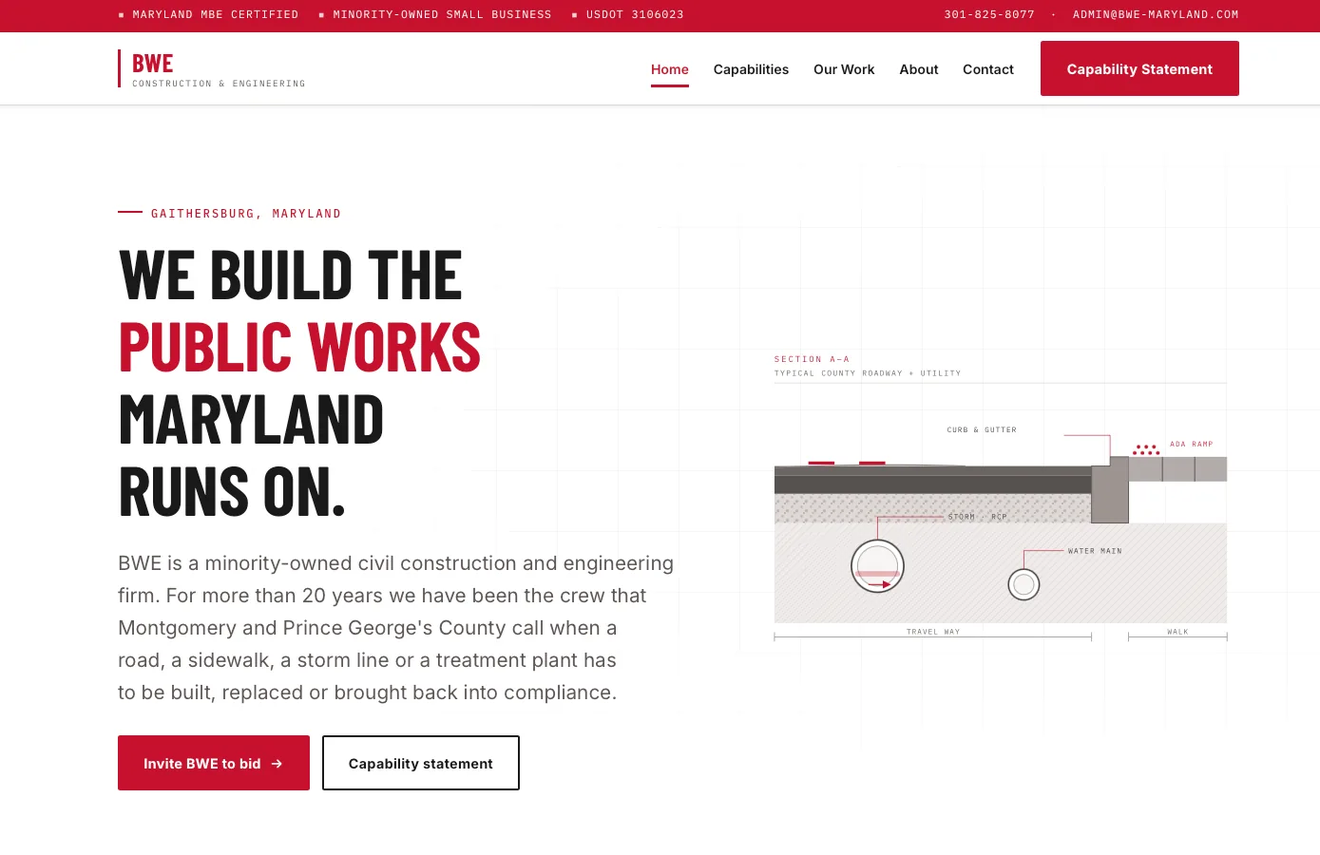
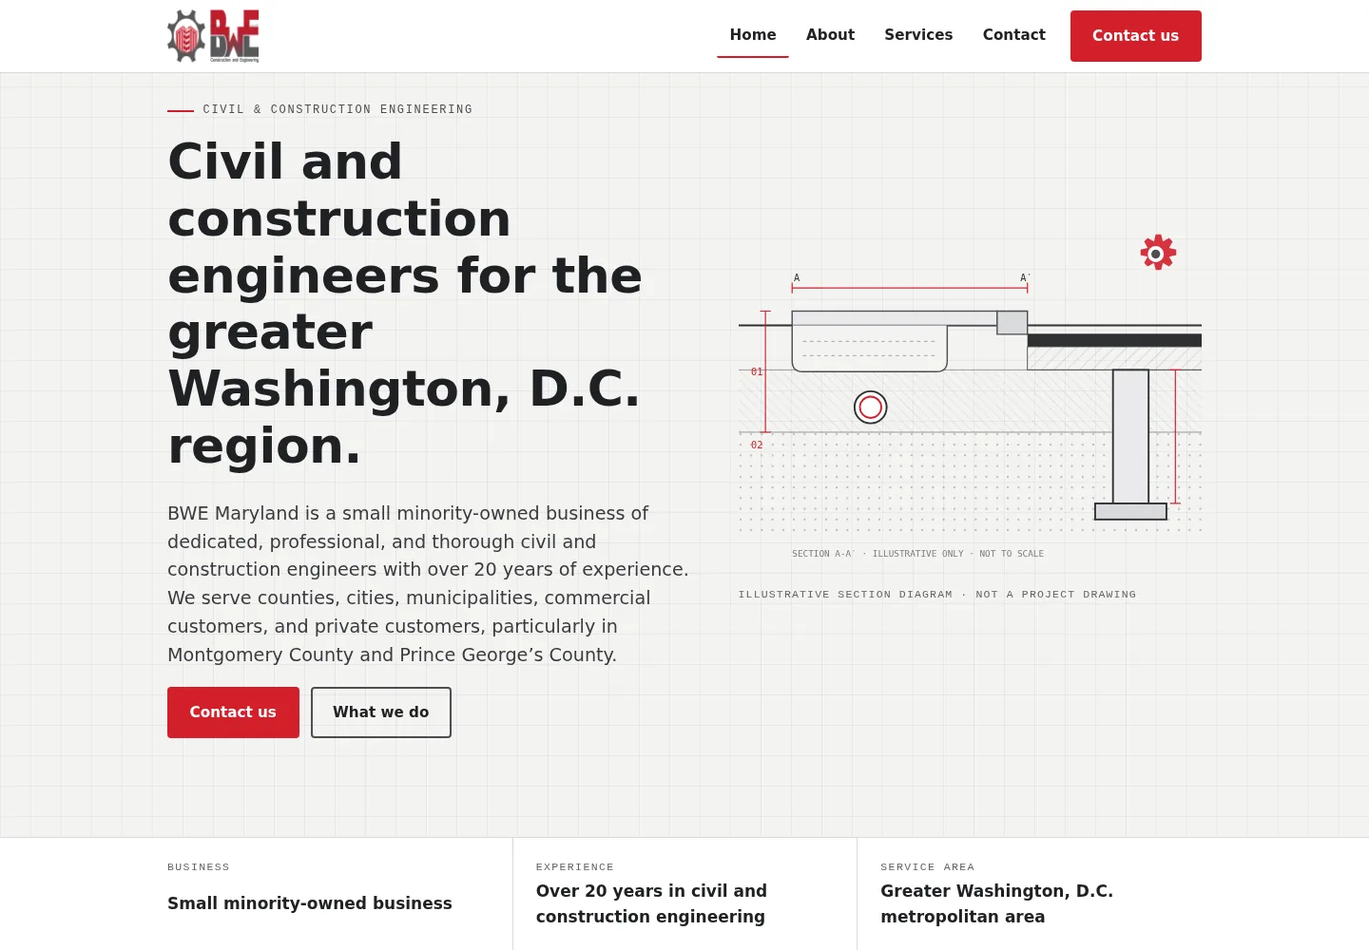
Rebuild the BWE case study from the live site and its claim register
I could not reach bwe-maryland.com: the organisation's egress policy answers
403 to CONNECT for it, as it does for every external host, so there is no
snapshot of the running site. Instead the screenshots come from a local
production build of the site's own repository at package version 0.2.1 —
the version its deployment record says is serving — which is the same method
used for Enlace Mental. The source commit is recorded in README.md.

Reading that repository turned up a real problem. The case study described a
services list, certifications surfaced in the header, and a capability
statement treated as the primary call to action. None of that survived the
project's own claim register:

- Thirteen specific service claims were removed from the build as unconfirmed
  and parked in a backlog. The portfolio was republishing them.
- Formal MBE/DBE certification is recorded as unsupported and deliberately
  absent from the site. The portfolio said certifications were surfaced in
  the header.
- There is no capability statement anywhere in the project.

So the case study is rewritten around what actually happened, which is a
better story than the one it replaced: the hard part was not the design, it
was establishing which claims the business could stand behind. Every factual
statement on the site has a register row with a status, a source and an
owner; a claim sweep fails the build if removed wording reappears; the
[…]

diff --git a/src/content/projects/bwe-maryland.ts b/src/content/projects/bwe-maryland.ts
@@ -18,8 +18,8 @@ export const bweMaryland: Project = {
     es: 'Gaithersburg, Maryland, Estados Unidos',
   },
   audience: {
-    en: 'County project managers, prime contractors and estimators deciding who gets invited to bid.',
-    es: 'Gerentes de proyecto del condado, contratistas generales y estimadores que deciden a quién invitan a licitar.',
+    en: 'Counties, cities and municipalities in the greater Washington, D.C. area, plus commercial and private customers deciding whether this is a firm to call.',
+    es: 'Condados, ciudades y municipios del área metropolitana de Washington, D.C., además de clientes comerciales y privados que evalúan si esta es una empresa a la que llamar.',
   },
   role: {
     en: 'Product strategist, content architect, designer and builder',
@@ -27,66 +27,82 @@ export const bweMaryland: Project = {
   },
 
   summary: {
-    en: 'A website revamp for a Maryland civil construction and engineering firm, built for the people who decide who gets invited to bid.',
-    es: 'Renovación del sitio web de una empresa de construcción civil e ingeniería en Maryland, hecha para quienes deciden a quién invitan a licitar.',
+    en: 'A website revamp for a Maryland civil and construction engineering firm, where the hard part was not the design — it was working out which claims the business could actually stand behind.',
+    es: 'La renovación del sitio web de una empresa de ingeniería civil y de construcción en Maryland, donde lo difícil no fue el diseño sino definir qué afirmaciones podía sostener el negocio de verdad.',
   },
   headline: {
-    en: 'A civil contractor that reads like it belongs on the bid list',
-    es: 'Un contratista civil que se lee como parte de la lista de licitación',
+    en: 'A website that only says what the business can prove',
+    es: 'Un sitio web que solo dice lo que el negocio puede demostrar',
   },
 
   businessProblem: {
     en: [
-      'Civil construction does not sell the way a consumer business sells. The reader is a county project manager or a prime contractor’s estimator, and what they need is narrow, specific and boring in the best way: what this firm self-performs, where it works, what certifications it holds, and whether there is a capability statement they can attach to a file.',
-      'A site written for a general audience makes that reader dig for all four. Digging is the point at which a qualified buyer moves on to the next firm on the list.',
+      'The old site was out of date and the firm had lost control of its own domain. Rebuilding the pages was the visible job. The real job turned out to be evidence.',
+      'Most of what anyone could tell me about the company came from old emails: a 2021 list of services, projects mentioned in passing, phone numbers and an office address from stale signatures. None of it was written by the company. Publishing it would have meant a civil engineering firm making capability claims to public-sector buyers that nobody at the firm had confirmed — which is a real problem when the reader is deciding whether to invite you to bid.',
+      'So the question stopped being "what should the site say" and became "what can this business actually stand behind, and who signed off on it".',
     ],
     es: [
-      'La construcción civil no se vende como se vende al consumidor final. Quien lee es un gerente de proyecto del condado o el estimador de un contratista general, y lo que necesita es concreto, específico y afortunadamente aburrido: qué ejecuta la empresa con personal propio, en qué zona trabaja, qué certificaciones tiene y si existe un capability statement que pueda adjuntar a un expediente.',
-      'Un sitio escrito para el público general obliga a ese lector a buscar las cuatro cosas. Y ese es justamente el momento en que un comprador calificado pasa a la siguiente empresa de la lista.',
+      'El sitio anterior estaba desactualizado y la empresa había perdido el control de su propio dominio. Reconstruir las páginas era el trabajo visible. El trabajo real resultó ser la evidencia.',
+      'Casi todo lo que alguien podía contarme de la empresa venía de correos viejos: una lista de servicios de 2021, proyectos mencionados de pasada, teléfonos y una dirección de oficina sacados de firmas desactualizadas. Nada de eso lo había escrito la empresa. Publicarlo habría significado que una firma de ingeniería civil hiciera, ante compradores del sector público, afirmaciones de capacidad que nadie en la empresa había confirmado, y eso pesa cuando quien lee está decidiendo a quién invita a licitar.',
+      'Así que la pregunta dejó de ser «qué debería decir el sitio» y pasó a ser «qué puede sostener este negocio de verdad, y quién lo aprobó».',
     ],
   },
   keyDecisions: {
     en: [
-      'Write the homepage for the estimator, not for a homeowner. It states the work plainly — roads, sidewalks, storm lines and treatment plants — and names the counties served.',
-      'Surface certifications and registration numbers in the header rather than burying them on an About page, because for this buyer those are the qualification.',
-      'Treat the capability statement as a primary call to action, not a PDF link in the footer. It is the artefact the buyer actually needs to walk away with.',
-      'Separate capabilities from past work, so a reader can answer "can they do this" and "have they done this" independently instead of inferring one from the other.',
-      'Use technical drawing as the visual language instead of stock construction photography, which every competitor in the category already uses.',
+      'Give every factual statement on the site a row in a claim register: the exact wording, a status, a source, a source date, who owns the decision, and whether it publishes. Nothing reaches a page without one.',
+      'Remove rather than soften. Thirteen specific service claims traced back to a 2021 email that had been written for the company rather than by it. With the company unavailable to confirm them before launch, they came out of the build entirely and went to a backlog — rather than being hedged into vagueness, which is the usual move and is just a quieter way of saying something unverified.',
+      'Publish only the two disciplines the recovered company text actually names — civil and construction engineering — and nothing narrower. A services page that says less, but is true, beats a longer one nobody can vouch for.',
+      'Keep certifications off the site. "Minority-owned" is published as a description because the company wrote it; formal MBE or DBE certification and certification numbers are not, because no evidence for them exists. Those two things look similar on a page and are completely different to a procurement officer.',
+      'Cut the specific projects that appeared only as email mentions, and cut the stale office address and an old phone number. A wrong phone number on a contractor site is worse than no phone number.',
+      'Use technical drawing as the visual language instead of stock construction photography — and label the drawing "illustrative only, not a project drawing", so an image cannot imply work the register does not support.',
+      'Build the discipline into the tooling. A claim sweep runs on every package build and fails it if any removed or rejected wording reappears, so the register cannot quietly rot as pages get edited later.',
+      'Ship a static site with no cookies, no analytics, no third-party scripts and no embeds, and hand the contact form off to the visitor’s own mail app rather than claim a submission the site cannot actually deliver yet.',
+      'Treat the one piece of hard evidence properly: a recognition from the Islamic Center of Maryland, transcribed from the physical plaque, presented as Selected Experience rather than padded out with projects that could not be verified.',
     ],
     es: [
-      'Escribir la página principal para el estimador, no para un dueño de casa. Dice el trabajo sin rodeos —calles, aceras, drenaje pluvial y plantas de tratamiento— y nombra los condados donde se trabaja.',
-      'Poner las certificaciones y los números de registro en el encabezado en vez de esconderlos en una página de "Nosotros", porque para este comprador eso es la calificación.',
-      'Tratar el capability statement como llamada a la acción principal y no como un enlace a PDF en el pie de página. Es el documento que el comprador necesita llevarse.',
-      'Separar las capacidades del trabajo realizado, para que el lector pueda responder "¿pueden hacer esto?" y "¿ya lo han hecho?" por separado, sin tener que deducir una cosa de la otra.',
-      'Usar dibujo técnico como lenguaje visual en lugar de fotografía de archivo de construcción, que ya usan todos los competidores de la categoría.',
+      'Darle a cada afirmación del sitio una fila en un registro de claims: el texto exacto, un estado, una fuente, la fecha de esa fuente, quién es dueño de la decisión y si se publica o no. Nada llega a una página sin eso.',
+      'Eliminar en vez de suavizar. Trece afirmaciones concretas de servicios venían de un correo de 2021 escrito para la empresa, no por ella. Como la empresa no estuvo disponible para confirmarlas antes del lanzamiento, salieron por completo del build y quedaron en una lista pendiente, en lugar de diluirse en generalidades, que es lo habitual y no deja de ser una forma más discreta de afirmar algo sin verificar.',
+      'Publicar solamente las dos disciplinas que el texto recuperado de la empresa sí nombra —ingeniería civil y de construcción— y nada más específico. Una página de servicios que dice menos, pero es cierta, vale más que una más larga que nadie puede respaldar.',
+      'Dejar las certificaciones fuera del sitio. «Empresa de propiedad minoritaria» se publica como descripción porque lo escribió la propia empresa; una certificación formal MBE o DBE y sus números no, porque no existe evidencia de ellas. En una página esas dos cosas se parecen, y para quien maneja compras públicas son completamente distintas.',
+      'Quitar los proyectos concretos que solo aparecían mencionados en correos, y quitar también la dirección de oficina desactualizada y un teléfono viejo. Un teléfono equivocado en el sitio de un contratista es peor que no poner teléfono.',
+      'Usar dibujo técnico como lenguaje visual en lugar de fotografía de archivo de construcción, y rotular el dibujo como «solo ilustrativo, no es un plano de proyecto», para que ninguna imagen insinúe trabajos que el registro no respalda.',
+      'Meter la disciplina en las herramientas. Una revisión automática de claims corre en cada build empaquetado y lo hace fallar si reaparece algún texto eliminado o rechazado, para que el registro no se pudra en silencio cuando alguien edite las páginas más adelante.',
+      'Publicar un sitio estático sin cookies, sin analítica, sin scripts de terceros y sin incrustaciones, y pasar el formulario de contacto a la aplicación de correo del visitante en vez de afirmar un envío que el sitio todavía no puede cumplir.',
+      'Tratar como corresponde la única evidencia sólida: un reconocimiento del Islamic Center of Maryland, transcrito de la placa física, presentado como experiencia seleccionada y no inflado con proyectos imposibles de verificar.',
     ],
   },
   deliverables: {
     en: [
-      'A homepage that states self-performed capabilities and service area above the fold',
-      'Certifications and registrations presented as persistent, checkable credentials',
-      'A capability-statement path treated as a first-class call to action',
-      'Capabilities and past work as separate, independently browsable sections',
-      'A visual system built on technical drawing rather than stock photography',
-      'Responsive layouts for the phone, since site visits and bid reviews both happen away from a desk',
+      'A five-page static site — home, about, services, contact and privacy — plus a branded 404, hand-written and generated by a small build script, with no framework and nothing to run on the server',
+      'A claim register covering every factual statement on the site, with status, source, source date, owner and publication decision',
+      'An automated claim sweep that fails the build if removed or rejected wording reappears',
+      'A visual system built on technical drawing, explicitly labelled as illustrative rather than as project work',
+      'Selected Experience limited to the one recognition backed by a physical plaque, transcribed from the original',
+      'A contact path that hands off to the visitor’s own mail app, and says so, rather than implying a submission it cannot deliver',
+      'A privacy position with no cookies, no analytics and no third-party requests, stated on the page and verified by the build checks',
+      'Accessibility and markup checks run at three widths on every build, plus sitemap, robots and social metadata',
+      'A deployment record and rollback values written down, so the domain move could be undone without touching the company’s mail',
     ],
     es: [
-      'Una página principal que expone, sin necesidad de bajar, las capacidades propias y la zona de servicio',
-      'Certificaciones y registros presentados como credenciales visibles y verificables',
-      'Un camino claro hacia el capability statement, tratado como llamada a la acción principal',
-      'Capacidades y trabajo realizado como secciones separadas y navegables por separado',
-      'Un sistema visual construido sobre dibujo técnico y no sobre fotografía de archivo',
-      'Diseño adaptado al teléfono, porque tanto las visitas de obra como las revisiones de licitación ocurren lejos del escritorio',
+      'Un sitio estático de cinco páginas —inicio, nosotros, servicios, contacto y privacidad— más un 404 con la marca, escrito a mano y generado por un script de build pequeño, sin framework y sin nada que ejecutar en el servidor',
+      'Un registro de claims que cubre cada afirmación del sitio, con estado, fuente, fecha de la fuente, responsable y decisión de publicación',
+      'Una revisión automática de claims que hace fallar el build si reaparece texto eliminado o rechazado',
+      'Un sistema visual construido sobre dibujo técnico, rotulado explícitamente como ilustrativo y no como trabajo de proyecto',
+      'Una sección de experiencia seleccionada limitada al único reconocimiento respaldado por una placa física, transcrita del original',
+      'Un camino de contacto que pasa el mensaje a la aplicación de correo del visitante, y lo dice, en lugar de insinuar un envío que no puede cumplir',
+      'Una postura de privacidad sin cookies, sin analítica y sin peticiones a terceros, declarada en la página y verificada por las comprobaciones del build',
+      'Comprobaciones de accesibilidad y de marcado en tres anchos en cada build, además de sitemap, robots y metadatos para compartir',
+      'Un registro de despliegue y valores de reversión por escrito, para poder deshacer el cambio de dominio sin tocar el correo de la empresa',
     ],
   },
 
   evidence: {
-    en: 'The site is live at the firm’s own domain. It launched recently and nothing has been measured yet, so there is no traffic, bid-invitation or enquiry figure to report.',
-    es: 'El sitio está en línea en el dominio de la propia empresa. Se lanzó hace poco y todavía no se ha medido nada, así que no hay cifras de tráfico, de invitaciones a licitar ni de consultas que reportar.',
+    en: 'The site went live at the firm’s own domain on 5 September 2026 on version 0.2.1, after the owner reviewed it on a phone and a laptop and gave written approval. Of the claims considered, thirty-four publish with a recorded source and twenty-two were removed or held; the launch gate requires zero unsupported claims in the rendered output. Nothing about traffic, bid invitations or enquiries has been measured, so none is reported.',
+    es: 'El sitio salió en línea en el dominio de la propia empresa el 5 de septiembre de 2026, en la versión 0.2.1, después de que el dueño lo revisara en teléfono y computadora y diera su aprobación por escrito. De las afirmaciones evaluadas, treinta y cuatro se publican con una fuente registrada y veintidós se eliminaron o quedaron en espera; la compuerta de lanzamiento exige cero afirmaciones sin respaldo en el resultado publicado. No se ha medido nada sobre tráfico, invitaciones a licitar ni consultas, así que no se reporta ninguna cifra.',
   },
   currentState: {
-    en: 'Live at bwe-maryland.com. The domain is back under the firm’s control and the revamped site is the one serving there.',
-    es: 'En línea en bwe-maryland.com. El dominio volvió al control de la empresa y el sitio renovado es el que está publicado ahí.',
+    en: 'Live at bwe-maryland.com. The domain is back under the firm’s control and the revamped site is the one serving there. The service claims that were pulled before launch sit in a backlog, waiting on the company to confirm them.',
+    es: 'En línea en bwe-maryland.com. El dominio volvió al control de la empresa y el sitio renovado es el que está publicado ahí. Las afirmaciones de servicios que se retiraron antes del lanzamiento están en una lista pendiente, a la espera de que la empresa las confirme.',
   },
 
   // The Netlify prototype is now a stale duplicate of a site that has a real
@@ -97,25 +113,58 @@ export const bweMaryland: Project = {
   },
 
   images: {
-    // This capture predates launch. The design is the one that shipped, but it
-    // should be recaptured from the live domain — see the asset notes in
-    // README.md.
     desktop: {
       src: '/projects/bwe-maryland/homepage-desktop.webp',
-      width: 1389,
-      height: 900,
+      width: 1440,
+      height: 1000,
       alt: {
-        en: 'The BWE Construction & Engineering home page on a desktop browser, with capabilities and certifications in view.',
-        es: 'La página principal de BWE Construction & Engineering en un navegador de escritorio, con las capacidades y las certificaciones a la vista.',
+        en: 'The BWE Maryland home page on a desktop browser: a technical section drawing beside the headline “Civil and construction engineers for the greater Washington, D.C. region.”',
+        es: 'La página principal de BWE Maryland en un navegador de escritorio: un dibujo técnico de sección junto al titular «Civil and construction engineers for the greater Washington, D.C. region».',
       },
     },
-    gallery: [],
+    mobile: {
+      src: '/projects/bwe-maryland/homepage-mobile.webp',
+      width: 780,
+      height: 1800,
+      alt: {
+        en: 'The same BWE Maryland home page on a phone, with the headline and both calls to action.',
+        es: 'La misma página principal de BWE Maryland en un teléfono, con el titular y las dos llamadas a la acción.',
+      },
+    },
+    gallery: [
+      {
+        src: '/projects/bwe-maryland/services.webp',
+        width: 1440,
+        height: 1000,
+        alt: {
+          en: 'The services page, naming civil engineering and construction engineering and nothing narrower.',
+          es: 'La página de servicios, que nombra ingeniería civil e ingeniería de construcción y nada más específico.',
+        },
+        caption: {
+          en: 'Services says less than the old draft did, and every word of it has a source. The thirteen removed claims are in a backlog, not on the page.',
+          es: 'La página de servicios dice menos que el borrador anterior, y cada palabra tiene una fuente. Las trece afirmaciones retiradas están en una lista pendiente, no en la página.',
+        },
+      },
+      {
+        src: '/projects/bwe-maryland/about.webp',
+        width: 1440,
+        height: 1000,
+        alt: {
+          en: 'The about page, with the company description and the Islamic Center of Maryland recognition.',
+          es: 'La página de nosotros, con la descripción de la empresa y el reconocimiento del Islamic Center of Maryland.',
+        },
+        caption: {
+          en: 'The one recognition with hard evidence behind it, transcribed from the physical plaque rather than paraphrased.',
+          es: 'El único reconocimiento con evidencia sólida detrás, transcrito de la placa física en lugar de parafraseado.',
+        },
+      },
+    ],
   },
 
   // The site being live at the firm's own domain is not the firm agreeing to
   // appear in someone else's portfolio. Those are separate permissions.
   publicPermission: 'pending',
   permissionNote:
-    'Confirm with the firm that it is happy to be named publicly, and that the capabilities described here are the ones it wants stated, before this goes to production.',
+    'Confirm with the firm that it is happy to be named publicly, and that this description of the work is one it is comfortable with, before this goes to production.',
   lastVerified: '2026-09-05',
 }

diff --git a/docs/PORTFOLIO_AND_PROOF_SYSTEM.md b/docs/PORTFOLIO_AND_PROOF_SYSTEM.md
@@ -207,11 +207,20 @@ Notes that matter for accuracy:
   restored. The automated check in `scripts/audit-content.mjs` inverted with it: it used
   to fail the build if a `liveUrl` appeared, and now fails if the live URL is missing or
   the superseded prototype link comes back.
-  Two things did **not** change. Naming permission is still pending — a firm publishing
-  its own website is not that firm agreeing to appear in someone else's portfolio — and
-  the committed screenshot is still the pre-launch capture, so it is on the recapture
-  list. Nothing about traffic, bid invitations or enquiries is claimed, because nothing
-  has been measured.
+  Screenshots were recaptured from a production build of the site's own repository at
+  package version 0.2.1 — the version the deployment record says is serving — because the
+  live domain is unreachable from a Claude Code session under the organisation's egress
+  policy.
+  The case study was also rewritten against the project's own claim register. An earlier
+  draft described a services list, certifications surfaced in the header and a capability
+  statement as a call to action. None of those survived the client's own verification:
+  thirteen service claims were removed to a backlog as unconfirmed, formal certification
+  is recorded as unsupported and deliberately absent, and there is no capability
+  statement. The case study now describes what the register actually shows, which is a
+  better story than the one it replaced.
+  Naming permission is still pending — a firm publishing its own website is not that firm
+  agreeing to appear in someone else's portfolio. Nothing about traffic, bid invitations
+  or enquiries is claimed, because nothing has been measured.
 - **Estero y Mar was presented and declined.** The hotel replied that it was already
   redesigning. There are no discussions under way and no adoption is expected. It is
   featured on the homepage as the one selected strategic concept, carrying its concept

diff --git a/README.md b/README.md
@@ -165,13 +165,17 @@ Chris has approved all of the following. They are settled and are not open quest
 - [ ] **A higher-resolution portrait.** The only file available is 400×400
       (`public/chris/portrait.webp`). It is displayed at a size it can carry, but a
       1200px original is needed before it can be used larger.
-- [ ] **A recapture of BWE Construction & Engineering from the live domain.** The
-      committed screenshot is of the pre-launch build. The design is the one that
-      shipped, but a live site should be shown as it actually serves.
-- [ ] **Genuine mobile screenshots** for Heart of Luray, BWE Construction & Engineering,
-      Ginny's Cleaning Services and Handy Danny. Enlace Mental and Hotel Rancho Estero y
+- [ ] **Genuine mobile screenshots** for Heart of Luray, Ginny's Cleaning Services and
+      Handy Danny. Enlace Mental and Hotel Rancho Estero y
       Mar have real phone captures and use them. Nothing is faked: no desktop screenshot
       is placed inside a phone frame and no empty device is drawn to fill a gap.
+
+BWE Maryland's screenshots — desktop, phone and two gallery frames — were captured on
+2026-09-05 from a local production build of `jclekkas/bwe-maryland` at commit `950afc9`,
+package version 0.2.1, which is the version the deployment record says is live at
+`bwe-maryland.com`. The live domain itself is unreachable from a Claude Code session
+(organisation egress policy), so the screenshots come from the source that ships there
+rather than from the running site.
 
 Enlace Mental's screenshots — desktop, phone and four gallery frames — were captured on
 2026-09-02 from a local production build of `jclekkas/enlace-mental` at commit
